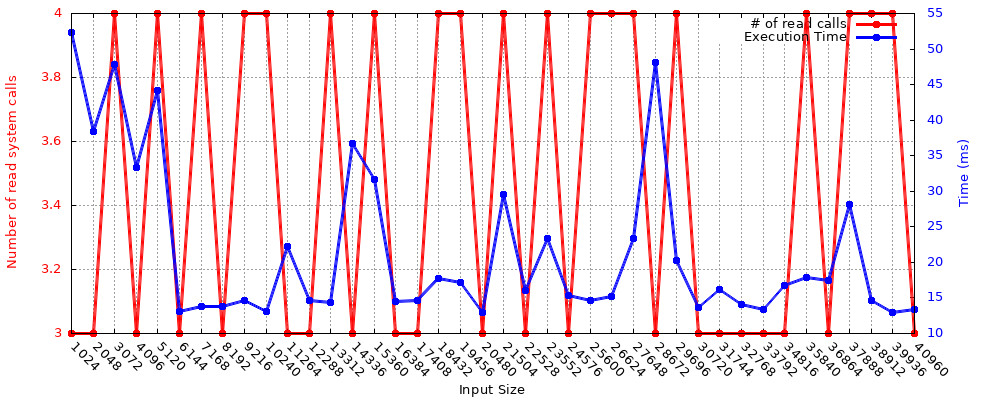
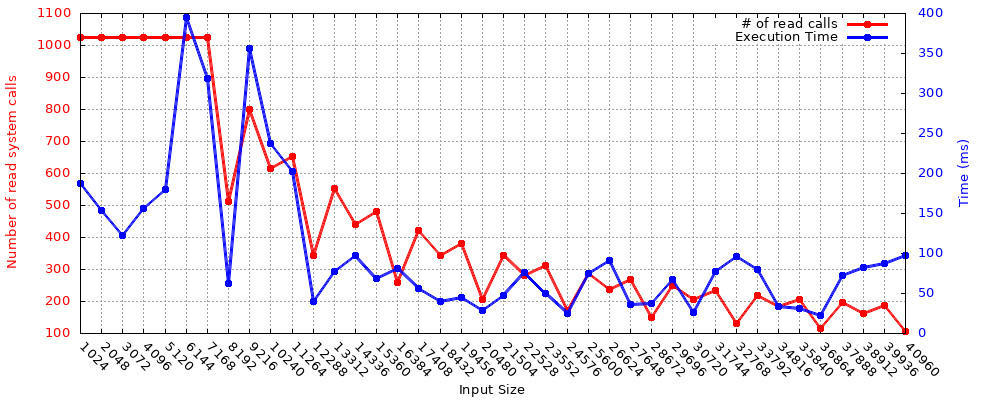
lab2 finished

Changed region(s): [[0.031, 0.0, 0.961, 0.96]]

diff --git a/Lab02/src/freading.c b/Lab02/src/freading.c
@@ -27,35 +27,6 @@ get_stream_size(FILE *fp)
 {
   struct stat sb;
   int fd;
-/**
- * Copyright (c) 2025 Rose-Hulman Institute of Technology. All Rights Reserved.
- *
- * Implementation of the memory area with several types.
- *
- * @author <Your name>
- * @date   <Date last modified>
- */
-#include <errno.h>
-#include <stdio.h>
-#include <stdio_ext.h>
-#include <stdlib.h>
-#include <string.h>
-#include <sys/stat.h>
-#include <time.h>
-
-#include "freading.h"
-
-FILE *
-open_stream(const char *name)
-{
-  return fopen(name, "r");
-}
-
-ssize_t
-get_stream_size(FILE *fp)
-{
-  struct stat sb;
-  int fd;
 
   fd = fileno(fp);
   if(fd == -1)
@@ -144,115 +115,7 @@ _main(int argc, char **argv)
   clock_gettime(CLOCK_MONOTONIC, &ts_start);
 
   char* buffer = malloc(fsize);
-  size_t num_items = fsize / blk;
-  ssize_t num_bytes_read = stream_read_bytes(stream, buffer, num_items, blk);
-  fprintf(stderr, "read_bytes read %d bytes\n", (int)num_bytes_read);
-  clock_gettime(CLOCK_MONOTONIC, &ts_end);
-  fprintf(stderr, "%lf seconds time elapsed\n", _subtract_timspec(ts_end, ts_start));
-  // HINT:
-  // =====
-  // To measure time and print it, use the following:
-  //
-  // Add #include <time.h> if it's not there.
-  //
-
-  // clock_gettime(CLOCK_MONOTONIC, &ts_start);
-  //
-  //   THING YOU'D LIKE TO MEASURE HERE
-  //
-  // TODO:
-  // =====
-  //    PLEASE USE THE SAME FPRINTF STATEMENT BELOW AS THE GRADING SCRIPT
-  //    DEPENDS ON IT.
-  //
-  // clock_gettime(CLOCK_MONOTONIC, &ts_end);
-  // fprintf(stderr, "%lf seconds time elapsed\n",
-  //         _subtract_timspec(ts_end, ts_start));
-
-  fclose(stream);
-  return rc;
-}
-  fd = fileno(fp);
-  if(fd == -1)
-    return -1;
-
-  if(fstat(fd, &sb)) {
-    return -1;
-  }
-
-  if(!S_ISREG(sb.st_mode))
-    return -1;
-  return sb.st_size;
-}
-
-ssize_t
-stream_read_bytes(FILE *fp, char *buf, ssize_t len, size_t incr)
-{
-  size_t num_read = fread(buf, incr, len, fp);
-  return num_read;
-}
-
-static double
-_subtract_timspec(struct timespec t1, struct timespec t2)
-{
-  struct timespec diff;
-
-  diff.tv_sec  = t1.tv_sec - t2.tv_sec;
-  diff.tv_nsec = t1.tv_nsec - t2.tv_nsec;
-  if(diff.tv_nsec < 0) {
-    // we need to subtract a second out and then adjust the remainder
-    diff.tv_nsec += 1000000000;
-    diff.tv_sec--;
-  }
-
-  return (double)diff.tv_sec + (double)diff.tv_nsec / 1e09;
-}
-
-int
-_main(int argc, char **argv)
-{
-  int rc = EXIT_SUCCESS;
-  FILE *stream;
-  char *endptr;
-  ssize_t blk              = 1;
-  ssize_t fsize            = 0;
-  struct timespec ts_start = {0, 0}, ts_end = {0, 0};
-
-  // TODO: Please comment out this line when you implement the last step in
-  // this file.
-  (void)_subtract_timspec(ts_start, ts_end);
-
-  if(argc > 1) {
-    errno = 0;
-    blk   = strtoll(argv[1], &endptr, 10);
-    if(errno || endptr < (argv[1] + strlen(argv[1]))) {
-      fprintf(
-          stderr,
-          "[ERROR] Argument provided could not be parsed into an integer.\n");
-      return EXIT_FAILURE;
-    }
-  }
-
-  printf("[LOG] Using a chunk size of %ld\n", blk);
-  stream = open_stream("large.dat");
-  if(stream == NULL) {
-    fprintf(stderr, "[ERROR]: Failed to open large.dat\n");
-    return EXIT_FAILURE;
-  }
-  if((fsize = get_stream_size(stream)) == -1) {
-    fprintf(stderr, "[ERROR]: Failed to get file size.\n");
-    fclose(stream);
-    return EXIT_FAILURE;
-  }
-
-  // TODO:
-  // =====
-  //  Add code here to real of the bytes in the input file stream.
-  clock_gettime(CLOCK_MONOTONIC, &ts_start);
-
-  char* buffer = malloc(fsize);
-  size_t num_items = fsize / blk;
-  ssize_t num_bytes_read = stream_read_bytes(stream, buffer, num_items, blk);
+  ssize_t num_bytes_read = stream_read_bytes(stream, buffer, fsize, blk);
   fprintf(stderr, "read_bytes read %d bytes\n", (int)num_bytes_read);
   clock_gettime(CLOCK_MONOTONIC, &ts_end);
   fprintf(stderr, "%lf seconds time elapsed\n", _subtract_timspec(ts_end, ts_start));
